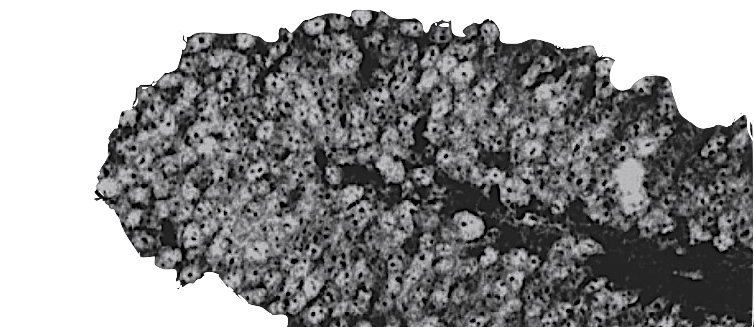
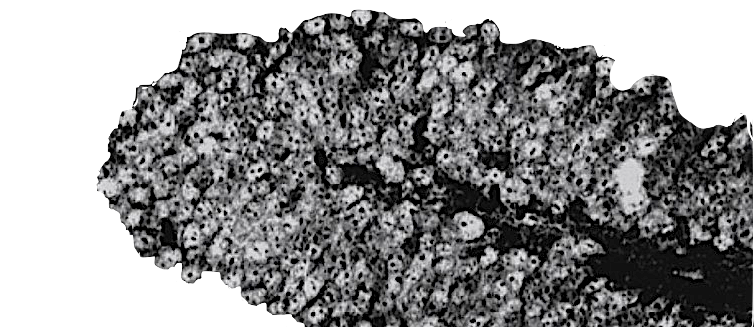
added tweet project

Changed region(s): [[0.122, 0.0306, 1.0, 1.0]]

diff --git a/index.html b/index.html
@@ -76,7 +76,7 @@
                     </p>
                 </div>
             </div>
-            <img src="img/ipad.png" class="img-fluid" alt="">
+            <img src="img/ipad.png" class="img-fluid" alt="hippocampus_cell_nuclei">
         </div>
     </section>
 
@@ -97,8 +97,8 @@
                 </div>
             </div>
 
-            <!-- Project One Row -->
-            <div class="row justify-content-center no-gutters mb-5 mb-lg-0">
+            <!-- Project One Row, removed bottom margin mb-5 from div class in line below-->
+            <div class="row justify-content-center no-gutters mb-lg-0">
                 <div class="col-lg-6">
                     <img class="img-fluid" src="img/demo-image-01.jpg" alt="">
                 </div>
@@ -108,8 +108,8 @@
                             <div class="project-text w-100 my-auto text-center text-lg-left">
                                 <h4 class="text-white">Recommender System and Sentiment Analysis for Aibrnb</h4>
                                 <p class="mb-0 text-white-50">
-                                    Built a system than generates personalised recommendations for Airbnb users based on sentiment polarity of their and other users' comments.
-                                    For more details, check out my <a href="https://github.com/alexgastone/AirbnbRecommend">Github repo</a>, my <a href="https://medium.com/@alexandra.gg150/how-to-build-a-recommender-system-for-airbnb-in-python-3a92ad500fa5">article on Medium</a>, or this
+                                    Generates personalised recommendations for Airbnb users based on sentiment polarity of their and other users' comments.
+                                    For more details, check out my <a href="https://github.com/alexgastone/AirbnbRecommend">Github repo</a>, my <a href="https://medium.com/@alexandra.gg150/how-to-build-a-recommender-system-for-airbnb-in-python-3a92ad500fa5">article on Medium</a> for a simple implementation, or this
                                     <a href="https://airbnb-bos-polarity.herokuapp.com/">dashboard</a> I created with <i>Streamlit</i> (deployed on <i>Heroku</i>) on estimated sentiment polarity data.
                                 </p>
                                 <hr class="d-none d-lg-block mb-0 ml-0">
@@ -122,9 +122,32 @@
             <!-- Project Two Row -->
             <div class="row justify-content-center no-gutters">
                 <div class="col-lg-6">
-                    <img class="img-fluid" src="img/demo-image-02-vid.gif" alt="">
+                    <img class="img-fluid" src="img/image-04.jpg" alt="">
                 </div>
                 <div class="col-lg-6 order-lg-first">
+                    <div class="bg-black text-center h-100 project">
+                        <div class="d-flex h-100">
+                            <div class="project-text w-100 my-auto text-center text-lg-right">
+                                <h4 class="text-white">Tweet Sentiment Extraction: a Question Answering Model with DistilBERT</h4>
+                                <p class="mb-0 text-white-50">
+                                    Uses Hugging Face's DistilBERT Transformer model on a Question Answering task trained on a custom SQuAD-like dataset of tweets to extract
+                                    the words that best supports a positive, negative or neutral sentiment label. Evaluation has so far shown a score of <i>0.7114 </i>(current
+                                    top submission at time of writing is <i>0.724</i>).
+                                    Check out the project so far <a href="https://github.com/alexgastone/ML_projects/blob/master/Tweets_BERT.ipynb">here</a>.
+                                </p>
+                                <hr class="d-none d-lg-block mb-0 mr-0">
+                            </div>
+                        </div>
+                    </div>
+                </div>
+            </div>
+
+            <!-- Project Three Row -->
+            <div class="row justify-content-center no-gutters">
+                <div class="col-lg-6">
+                    <img class="img-fluid" src="img/demo-image-02-vid.gif" alt="">
+                </div>
+                <div class="col-lg-6">
                     <div class="bg-black text-center h-100 project">
                         <div class="d-flex h-100">
                             <div class="project-text w-100 my-auto text-center text-lg-right">
@@ -140,12 +163,12 @@
                 </div>
             </div>
 
-            <!-- Project Three Row -->
-            <div class="row justify-content-center no-gutters mb-5 mb-lg-0">
+            <!-- Project Four Row -->
+            <div class="row justify-content-center no-gutters mb-lg-0">
                 <div class="col-lg-6">
                     <img class="img-fluid" src="img/demo-image-03.jpg" alt="">
                 </div>
-                <div class="col-lg-6">
+                <div class="col-lg-6 order-lg-first">
                     <div class="bg-black text-center h-100 project">
                         <div class="d-flex h-100">
                             <div class="project-text w-100 my-auto text-center text-lg-left">

diff --git a/css/grayscale.css b/css/grayscale.css
@@ -99,8 +99,8 @@
 
 .masthead h1 {
   font-family: 'Varela Round';
-  font-size: 2.5rem;
-  line-height: 2.5rem;
+  font-size: 3rem;
+  line-height: 3rem;
   letter-spacing: 0.8rem;
   background: -webkit-linear-gradient(rgba(255, 255, 255, 0.9), rgba(255, 255, 255, 0));
   -webkit-text-fill-color: transparent;
@@ -114,8 +114,8 @@
 
 @media (min-width: 768px) {
   .masthead h1 {
-    font-size: 2.5rem;
-    line-height: 2.5rem;
+    font-size: 3rem;
+    line-height: 3rem;
   }
 }
 
@@ -125,8 +125,8 @@
     padding: 0;
   }
   .masthead h1 {
-    font-size: 2.5rem;
-    line-height: 2.5rem;
+    font-size: 3rem;
+    line-height: 3rem;
     letter-spacing: 0.8rem;
   }
   .masthead h2 {
